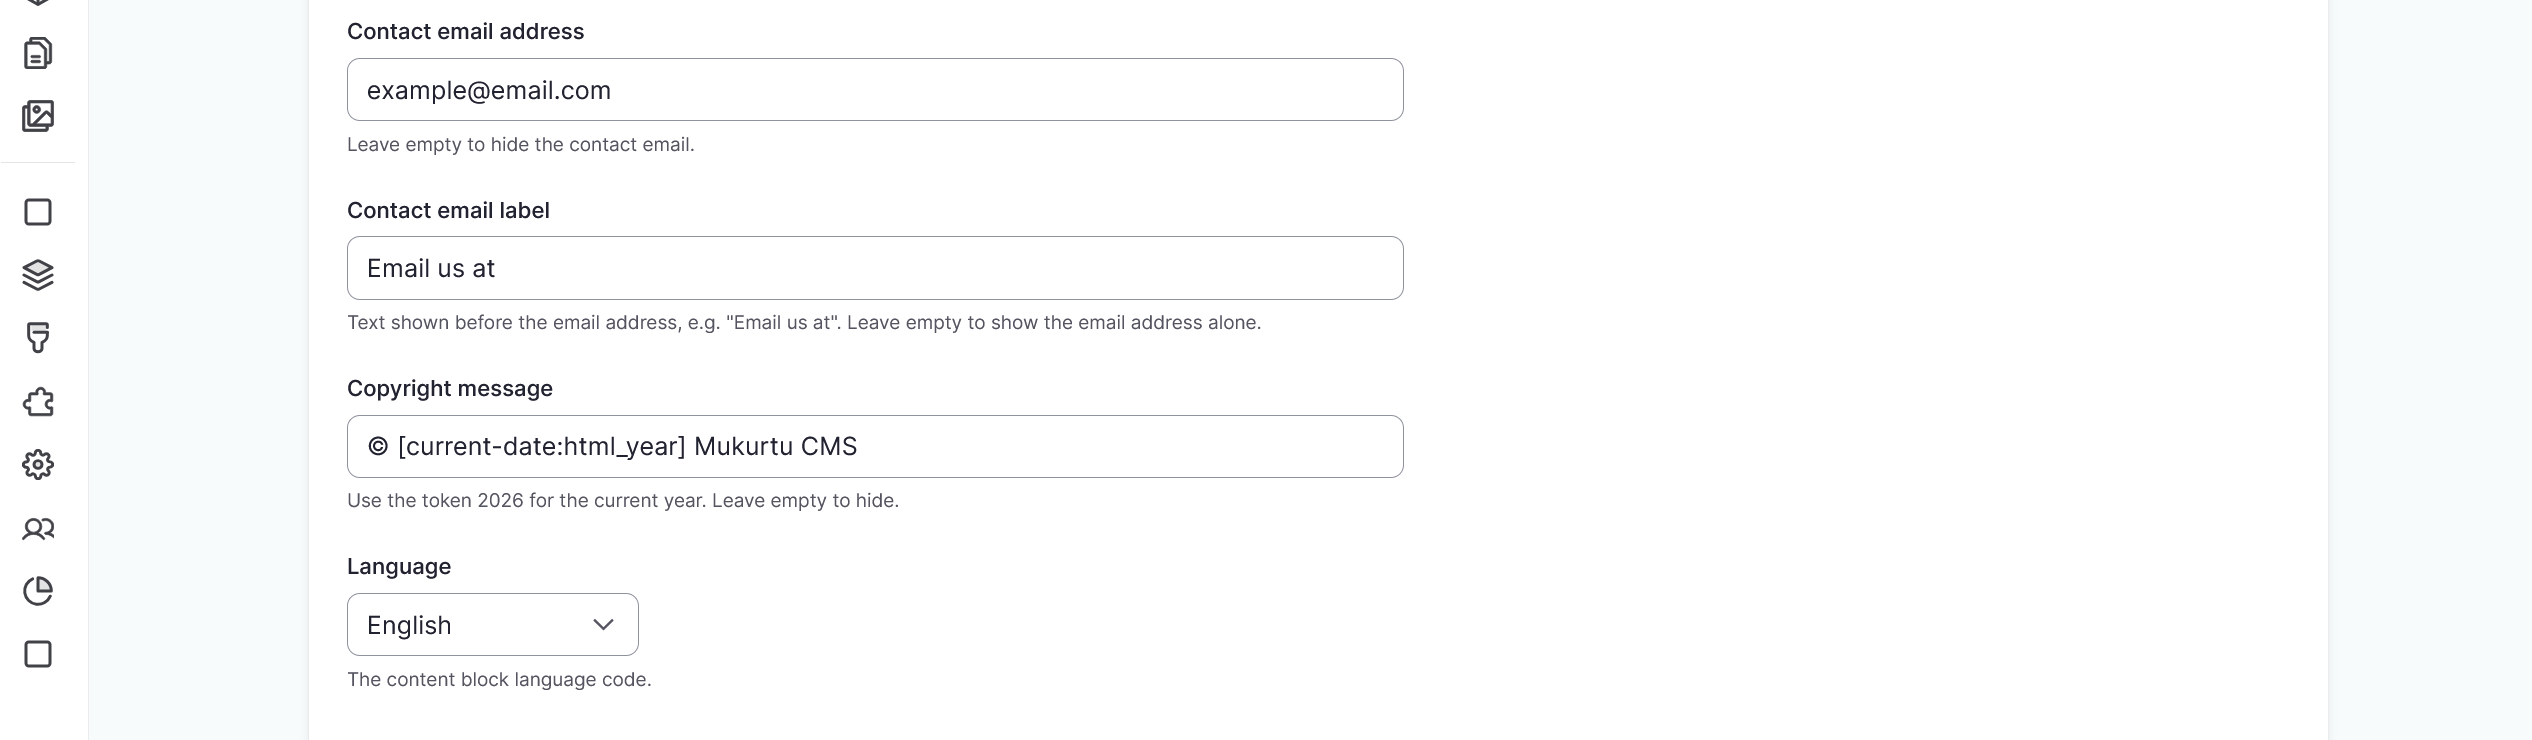
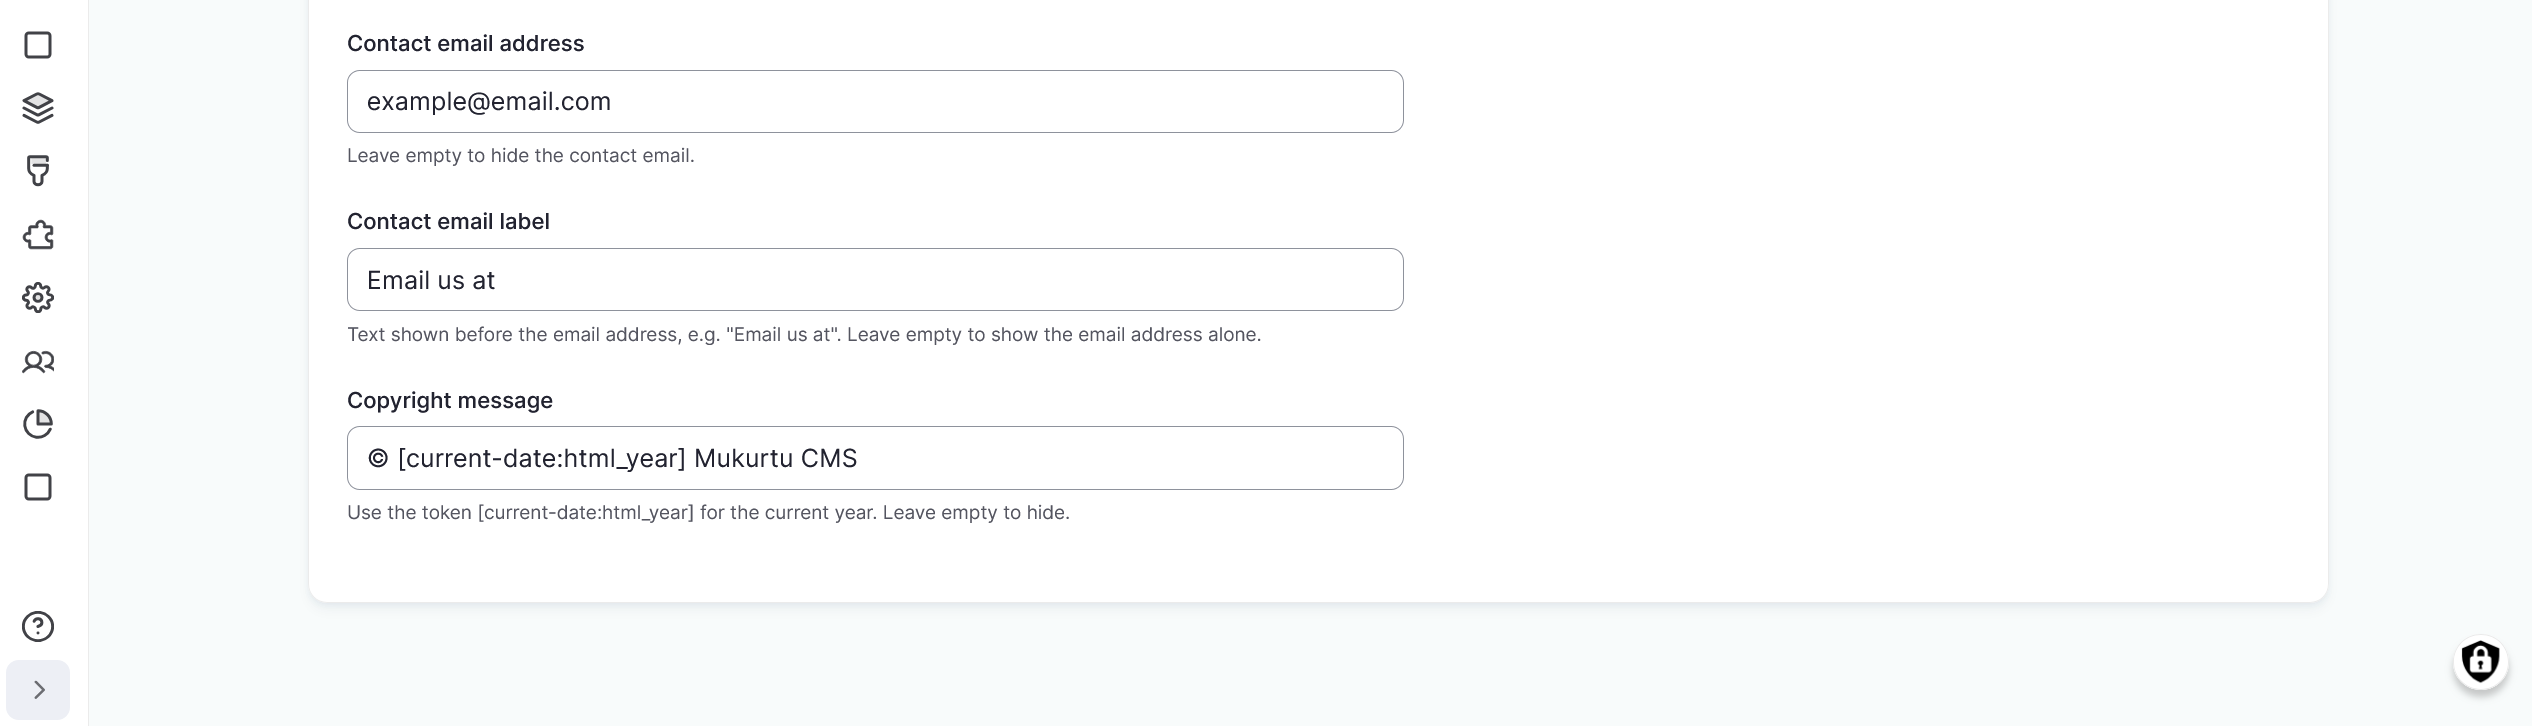
Screenshot replacement
Replaced screenshot footer11 after helper text was fixed.

diff --git a/docs/look-and-feel/ConfigureFooter.md b/docs/look-and-feel/ConfigureFooter.md
@@ -93,9 +93,8 @@ You can use this section to add other links to your footer. This can provide lin
 - Use the *Contact email address* to include an email address for users to contact site administrators
 - Optionally use the *Contact email label* field, which includes text before the email address such as "Email us at". Leave this field empty to show the email address alone.
 - Use the *Copyright message* field to include a copyright message for your site. You can use the `[current-date:html_year]` token to automatically include the current year. 
-- If you have Mukurtu multilingual enabled, you may select the language you prefer the footer to appear in. For more information about Mukurtu multilingual refer to our [Mukurtu Multilingual Translation Workflow](../multilingual/TranslationWorkflow.md) article.
 
-![Screenshot of the contact email addres, email label, copyright message, and language fields.](../_embeds/footer11.png)
+![Screenshot of the contact email addres, email label, and copyright message fields.](../_embeds/footer11.png)
 
 Select the "Save" button in the top right of the page to save your footer.
 
